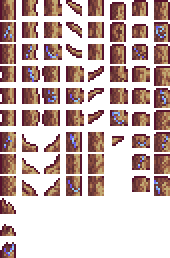
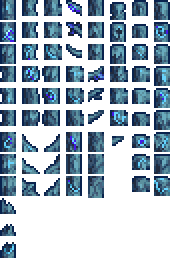
stuff

diff --git a/Items/Grotto/GrottoBrick.cs b/Items/Grotto/GrottoBrick.cs
@@ -1,0 +1,28 @@
+using Terraria.ID;
+using Terraria.ModLoader;
+
+namespace Emperia.Items.Grotto
+{
+	public class GrottoBrick : ModItem
+	{
+		public override void SetStaticDefaults()
+		{
+			DisplayName.SetDefault("Grotto Brick");
+		}
+		public override void SetDefaults()
+		{
+			item.width = 20;
+			item.height = 20;
+			item.maxStack = 999;
+			item.value = 1000;
+			item.rare = 1;
+			item.useTurn = true;
+            item.autoReuse = true;
+            item.useAnimation = 15;
+            item.useTime = 10;
+            item.useStyle = ItemUseStyleID.SwingThrow;
+            item.consumable = true;
+            item.createTile = mod.TileType("TwilightBrick");
+		}
+	}
+}

diff --git a/Items/Grotto/GrottoStone.cs b/Items/Grotto/GrottoStone.cs
@@ -1,0 +1,28 @@
+using Terraria.ID;
+using Terraria.ModLoader;
+
+namespace Emperia.Items.Grotto
+{
+	public class GrottoStone : ModItem
+	{
+		public override void SetStaticDefaults()
+		{
+			DisplayName.SetDefault("Grotto Stone");
+		}
+		public override void SetDefaults()
+		{
+			item.width = 20;
+			item.height = 20;
+			item.maxStack = 999;
+			item.value = 1000;
+			item.rare = 1;
+			item.useTurn = true;
+            item.autoReuse = true;
+            item.useAnimation = 15;
+            item.useTime = 10;
+            item.useStyle = ItemUseStyleID.SwingThrow;
+            item.consumable = true;
+            item.createTile = mod.TileType("TwilightStone");
+		}
+	}
+}

diff --git a/Items/Grotto/GrottoDirt.cs b/Items/Grotto/GrottoDirt.cs
@@ -1,0 +1,28 @@
+using Terraria.ID;
+using Terraria.ModLoader;
+
+namespace Emperia.Items.Grotto
+{
+	public class GrottoDirt : ModItem
+	{
+		public override void SetStaticDefaults()
+		{
+			DisplayName.SetDefault("Grotto Dirt");
+		}
+		public override void SetDefaults()
+		{
+			item.width = 20;
+			item.height = 20;
+			item.maxStack = 999;
+			item.value = 1000;
+			item.rare = 1;
+			item.useTurn = true;
+            item.autoReuse = true;
+            item.useAnimation = 15;
+            item.useTime = 10;
+            item.useStyle = ItemUseStyleID.SwingThrow;
+            item.consumable = true;
+            item.createTile = mod.TileType("TwilightDirt");
+		}
+	}
+}

diff --git a/Items/Grotto/GrottoWood.cs b/Items/Grotto/GrottoWood.cs
@@ -1,0 +1,28 @@
+using Terraria.ID;
+using Terraria.ModLoader;
+
+namespace Emperia.Items.Grotto
+{
+	public class GrottoWood : ModItem
+	{
+		public override void SetStaticDefaults()
+		{
+			DisplayName.SetDefault("Grotto Wood");
+		}
+		public override void SetDefaults()
+		{
+			item.width = 20;
+			item.height = 20;
+			item.maxStack = 999;
+			item.value = 1000;
+			item.rare = 1;
+			item.useTurn = true;
+            item.autoReuse = true;
+            item.useAnimation = 15;
+            item.useTime = 10;
+            item.useStyle = ItemUseStyleID.SwingThrow;
+            item.consumable = true;
+            item.createTile = mod.TileType("TFWood");
+		}
+	}
+}

diff --git a/EmperialWorld.cs b/EmperialWorld.cs
@@ -152,7 +152,7 @@ namespace Emperia
 							airCount++;
 					}
 				}
-			} while (badTileCount > 50 && airCount > 200 && tries < 500);
+			} while (badTileCount > 100 && airCount > 200 && tries < 500);
 
 			// find a spot on the ground
 			while (!Main.tile[x, y].active())
@@ -192,7 +192,10 @@ namespace Emperia
 					}
 
 					if (Main.tile[i, j].wall == WallID.Dirt)
+					{
+						WorldGen.KillWall(i, j);
 						Main.tile[i, j].wall = (ushort)mod.WallType("TwilightWoodWall");
+					}
 				}
 
 				if (Main.tile[x + TwilightWidth - offset, j].active())

diff --git a/Tiles/TwilightTree.cs b/Tiles/TwilightTree.cs
@@ -11,7 +11,7 @@ namespace Emperia.Tiles
 
 		public override int DropWood()
 		{
-			return mod.ItemType("DaysVerge");
+			return mod.ItemType("GrottoWood");
 		}
 		public override int GrowthFXGore()
 		{
@@ -31,7 +31,8 @@ namespace Emperia.Tiles
 			frameWidth=160;
 			frameHeight=113;
 			frame = 0;
-			xOffsetLeft = 75;
+			xOffsetLeft = 52;
+			yOffset = 12;
 			return mod.GetTexture("Tiles/TwilightTree_Top");
 		}
 

diff --git a/Tiles/TwilightStone.cs b/Tiles/TwilightStone.cs
@@ -14,7 +14,7 @@ namespace Emperia.Tiles
 			Main.tileMergeDirt[Type] = true;
 			Main.tileMerge[Type][mod.TileType("TwilightGrass")] = true;
 			Main.tileBlockLight[Type] = true;
-			drop = mod.ItemType("TwilightStone");
+			drop = mod.ItemType("GrottoStone");
 			AddMapEntry(new Color(138, 210, 230));
 			mineResist = 4f;
 			minPick = 80;

diff --git a/Tiles/TwilightBrick.cs b/Tiles/TwilightBrick.cs
@@ -13,7 +13,7 @@ namespace Emperia.Tiles
 			Main.tileSolid[Type] = true;
 			Main.tileMergeDirt[Type] = true;
 			Main.tileBlockLight[Type] = true;
-			// drop = mod.ItemType("TwilightStone");
+			drop = mod.ItemType("GrottoBrick");
 			AddMapEntry(new Color(111, 143, 185));
 			mineResist = 4f;
 			minPick = 80;

diff --git a/Tiles/TwilightDirt.cs b/Tiles/TwilightDirt.cs
@@ -17,7 +17,7 @@ namespace Emperia.Tiles
             AddMapEntry(new Color(117, 241, 255));
 			mineResist = 3f;
 			Main.tileBrick[Type] = true;
-            drop = ItemID.DirtBlock;
+            drop = mod.ItemType("GrottoDirt");
 			SetModTree(new TwilightTree());
 			dustType = 72;
       
